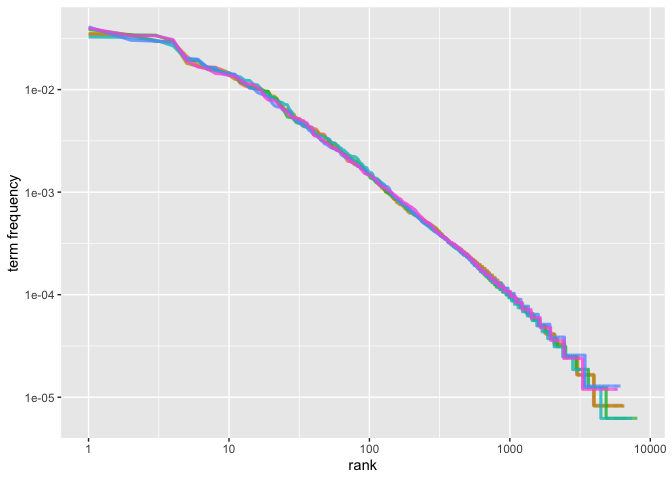
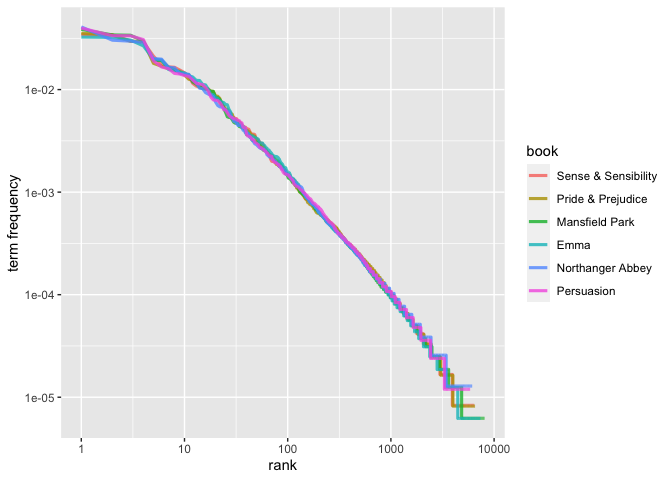
Added the rest of week 1

diff --git a/week1/week1_notes.md b/week1/week1_notes.md
@@ -2,9 +2,9 @@ Week 1 - NLP Reading Course Notes
 ================
 2022-01-14
 
-This Rmarkdown includes the notes for my course readings in INF2010 -
-Reading Course: Natural Language Processing. This week’s readings
-include:
+This Rmarkdown includes the notes and reading responses for my course
+readings in INF2010 - Reading Course: Natural Language Processing. This
+week’s readings include:
 
 -   Silge, Julia & David Robinson, 2020, Text Mining with R, Chapters
     1-4: <https://www.tidytextmining.com>.
@@ -26,6 +26,8 @@ library(tidyverse)
 library(tidytext)
 library(janeaustenr)
 library(wordcloud)
+library(igraph)
+library(ggraph)
 ```
 
 ### Chapter 1 - The tidy text format
@@ -87,8 +89,8 @@ my_data %>%
     ## 11     3 o     
     ## 12     3 n
 
-Something interesting I found is that `unnest_tokens`, splits on
-punctuation other than apostrophe. Above you can see that “<go!i@ing>”
+Something interesting I found is that `unnest_tokens` splits on
+punctuation, other than apostrophe. Above you can see that “<go!i@ng>”
 was split into three tokens: “go”, “i”, and “ng”. And “what’s” was left
 in tact.
 
@@ -99,7 +101,7 @@ in tact.
 original_books <- austen_books() %>% 
   group_by(book) %>% 
   mutate(line_number = row_number(),
-         chapter = cumsum(str_detect(text, regex("^chapter [\\divxlc]",
+         chapter = cumsum(str_detect(text, regex("^chapter [\\divxlc]", # detect the text "Chapter"
                                            ignore_case = TRUE)))) %>% 
   ungroup()
 
@@ -199,9 +201,10 @@ emma_sentiments
     ## 10 Emma           21       1 indulgent    positive 
     ## # … with 11,956 more rows
 
-Positive words for the book Emma:
+Most frequent positive sentiment words for the book Emma:
 
 ``` r
+# Get count of positive sentiment words
 emma_sentiments %>% 
   filter(sentiment == "positive") %>% 
   count(word, sort = TRUE)
@@ -222,9 +225,10 @@ emma_sentiments %>%
     ## 10 right       92
     ## # … with 658 more rows
 
-Negative words for the book Emma:
+Most frequent negative sentiment words for the book Emma:
 
 ``` r
+# Get count of negative sentiment words
 emma_sentiments %>% 
   filter(sentiment == "negative") %>% 
   count(word, sort = TRUE)
@@ -248,6 +252,7 @@ emma_sentiments %>%
 Plot our word counts
 
 ``` r
+# Plot sentiment word counts on bar plot
 emma_sentiments %>%
   count(word, sentiment, sort = TRUE) %>% 
   group_by(sentiment) %>%
@@ -262,12 +267,14 @@ emma_sentiments %>%
 
 ![](week1_notes_files/figure-gfm/unnamed-chunk-8-1.png)<!-- -->
 
-Wordcloud for the book Emma:
+Wordcloud for positive sentiments the book Emma:
 
 ``` r
-emma_sentiments %>% 
+# Create wordcloud for positive sentiments
+emma_sentiments %>%
+  filter(sentiment == "positive") %>% 
   count(word) %>% 
-  with(wordcloud(word, n, max.words = 100))
+  with(wordcloud(word, n, max.words = 100)) 
 ```
 
 ![](week1_notes_files/figure-gfm/unnamed-chunk-9-1.png)<!-- -->
@@ -312,7 +319,7 @@ freq_by_rank <- book_words %>%
 # Plot rank against term frequency for all Austen books
 freq_by_rank %>% 
   ggplot(aes(rank, `term frequency`, color = book)) +
-  geom_line(size = 1.1, alpha = 0.8, show.legend = FALSE) +
+  geom_line(size = 1.1, alpha = 0.8) +
   scale_x_log10() +
   scale_y_log10()
 ```
@@ -325,7 +332,7 @@ dataset needs to have:
 -   one token per row (tidy)
 -   one column containing the tokens/terms
 -   one column containing the documents
--   once column containing how many times the token/term occurs in that
+-   one column containing how many times the token/term occurs in that
     document
 
 Calculating tf-idf for the austen books:
@@ -356,7 +363,12 @@ book_tf_idf %>%
     ## 10 Persuasion          wentworth   191 0.00228  1.79 0.00409
     ## # … with 40,369 more rows
 
+We see that the values with the highest tf-idf are names of the
+characters in the novel. This makes logical sense given how tf-idf
+works.
+
 ``` r
+# Create a bar plot to show the greatest tf-idf tokens per book
 book_tf_idf %>%
   group_by(book) %>%
   slice_max(tf_idf, n = 15) %>%    # get top 15 tf-idf per book
@@ -368,3 +380,146 @@ book_tf_idf %>%
 ```
 
 ![](week1_notes_files/figure-gfm/unnamed-chunk-12-1.png)<!-- -->
+
+### Chapter 4 - Relationships between words: n-grams and correlations
+
+**N-grams** allow us to tokenize sequence of words to see how often word
+X is followed by word Y.
+
+An advantage of n-grams over a “bag-of-words” approach is that the order
+of words provides useful information.
+
+-   When n = 1, we call the tokens “unigrams”
+-   When n = 2, we call the tokens “bigrams”
+-   When n = 3, we call the tokens “trigrams”
+
+To create n-grams, we can use `unnest_tokens()` with the `token`
+parameter set to `"ngrams"` and the `n` parameter set to the number of
+words in our sequence. For example:
+`unnest_tokens(..., token = "ngrams", n = 2)`.
+
+Once we have separated our text into n-grams, we can split the n-gram’s
+words into their own columns using `separate()`.
+
+Inversely we can join words in their own columns back into one column
+using `unite()`.
+
+``` r
+# Create bigrams from all of Jane Austens novels
+austen_bigrams <- austen_books() %>% 
+  unnest_tokens(bigram, text, token = "ngrams", n = 2) %>% 
+  separate(bigram, c("word1", "word2"), sep = " ") %>%      
+  anti_join(stop_words, by = c("word1" = "word")) %>%  # Remove stop words
+  anti_join(stop_words, by = c("word2" = "word")) %>%  # Remove stop words
+  filter(!is.na(word1) & !is.na(word2)) %>%   # Remove NA
+  count(book, word1, word2, sort = TRUE)  # Count bigrams per book
+
+austen_bigrams
+```
+
+    ## # A tibble: 31,391 × 4
+    ##    book                word1   word2         n
+    ##    <fct>               <chr>   <chr>     <int>
+    ##  1 Mansfield Park      sir     thomas      266
+    ##  2 Mansfield Park      miss    crawford    196
+    ##  3 Emma                miss    woodhouse   143
+    ##  4 Persuasion          captain wentworth   143
+    ##  5 Emma                frank   churchill   114
+    ##  6 Persuasion          lady    russell     110
+    ##  7 Persuasion          sir     walter      108
+    ##  8 Mansfield Park      lady    bertram     101
+    ##  9 Emma                miss    fairfax      98
+    ## 10 Sense & Sensibility colonel brandon      96
+    ## # … with 31,381 more rows
+
+Again we see names as the the most frequent for bigrams. Though this
+time we capture names with titles, such as “sir”, “miss” and “captain”.
+
+``` r
+# Set random seed
+set.seed(1234)
+
+# Create graph from bigrams
+austen_bigram_graph <- austen_bigrams %>% 
+  filter(n > 20) %>% 
+  select(word1, word2, n) %>% 
+  graph_from_data_frame()
+
+# Plot graph
+austen_bigram_graph %>% 
+  ggraph(layout = "fr") +
+  geom_edge_link(aes(edge_alpha = n), 
+                 show.legend = FALSE,
+                 arrow = grid::arrow(type = "closed", length = unit(.07, "inches")), 
+                 end_cap = circle(.07, 'inches')) +
+  geom_node_point(color = "grey", size = 4) +
+  geom_node_text(aes(label = name), vjust = 1, hjust = 1) +
+  theme_void()
+```
+
+<img src="week1_notes_files/figure-gfm/unnamed-chunk-14-1.png" width="100%" />
+
+## The Social Impact of Natural Language Processing
+
+### Reading Response
+
+In *The Social Impact of Natural Language Processing*, Hovy and Shannon
+aim to start a discussion on the ethics of Natural Language Processing
+research.
+
+They identify that there is a gap in the research on the ethics of NLP
+methods. They compare data science research (which includes NLP
+research) to the medical sciences and find that, unlike the medical
+sciences, data science research does not have an ethical standard to
+guide experiments. They hypothesize the reason to be that because data
+science research does not deal with human subjects directly, the need
+for an ethical standard was never established.
+
+However, Hovy and Shannon argue that NLP research is changing and the
+social impacts are being felt by the public. The gap between text and
+author is closing, and the situation is changing due to the increase in
+the study of social media data. If NLP researchers are not aware of the
+potential downfalls of NLP research, there can be harmful social
+impacts.
+
+Hovy and Shannon identify three potential harmful impacts of NLP
+research: *exclusion*, *overgeneralization*, and the *problem of
+exposure*. They mention that text data contains latent demographic bias
+within it, and training models on text data creates the risk of
+exclusion and demographic misrepresentation. Even if we avoid these
+potential pitfalls, NLP models can have unintended consequences if used
+for a different purpose in which they were built. They give the example
+that “NLP techniques can be used to detect fake reviews, but also to
+generate them in the first place.”
+
+I found it surprising that there is not much discourse on the ethics of
+NLP methods given the widespread usage of social media, online news, and
+blogs. If models are being trained on text data that is primarily
+generated from a certain population, researchers should be cautious of
+extrapolating insights to other populations. Training models on data
+from diverse groups, and languages will assist in creating more
+equitable systems.
+
+## Principled Frameworks for Evaluating Ethics in NLP Systems
+
+### Reading Response
+
+The paper *Principled Frameworks for Evaluating Ethics in NLP Systems*,
+by Prabhumoye et al. explores the use of ethical frameworks in NLP
+research. They argue that machine learning researchers should not be
+“evaluating ourselves, on metrics of our own choosing”, but rather
+drawing from established frameworks of ethics.
+
+Prabhumoye et al. explore two ethical frameworks from philosophy, the
+generalization principle, and the utilitarian principle. In one example,
+where demographic information (age and gender) is needed in a
+classification task, sentiment, and topic modelling, the two ethical
+frameworks differ in terms of the correct action to take. The
+utilitarian framework will use demographic information to maximize its
+own utility and accuracy, while the generalization principle will not
+use demographic information because the classification task is aught to
+be agnostic of such demographic information. There are times that we may
+have to sacrifice model accuracy to remove biases or unethical patterns
+that our models may pick up on. Prabhumoye et al. stress the importance
+of adopting a framework of ethics and viewing machine learning research
+holistically as opposed to simply trying to maximize accuracy metrics.
